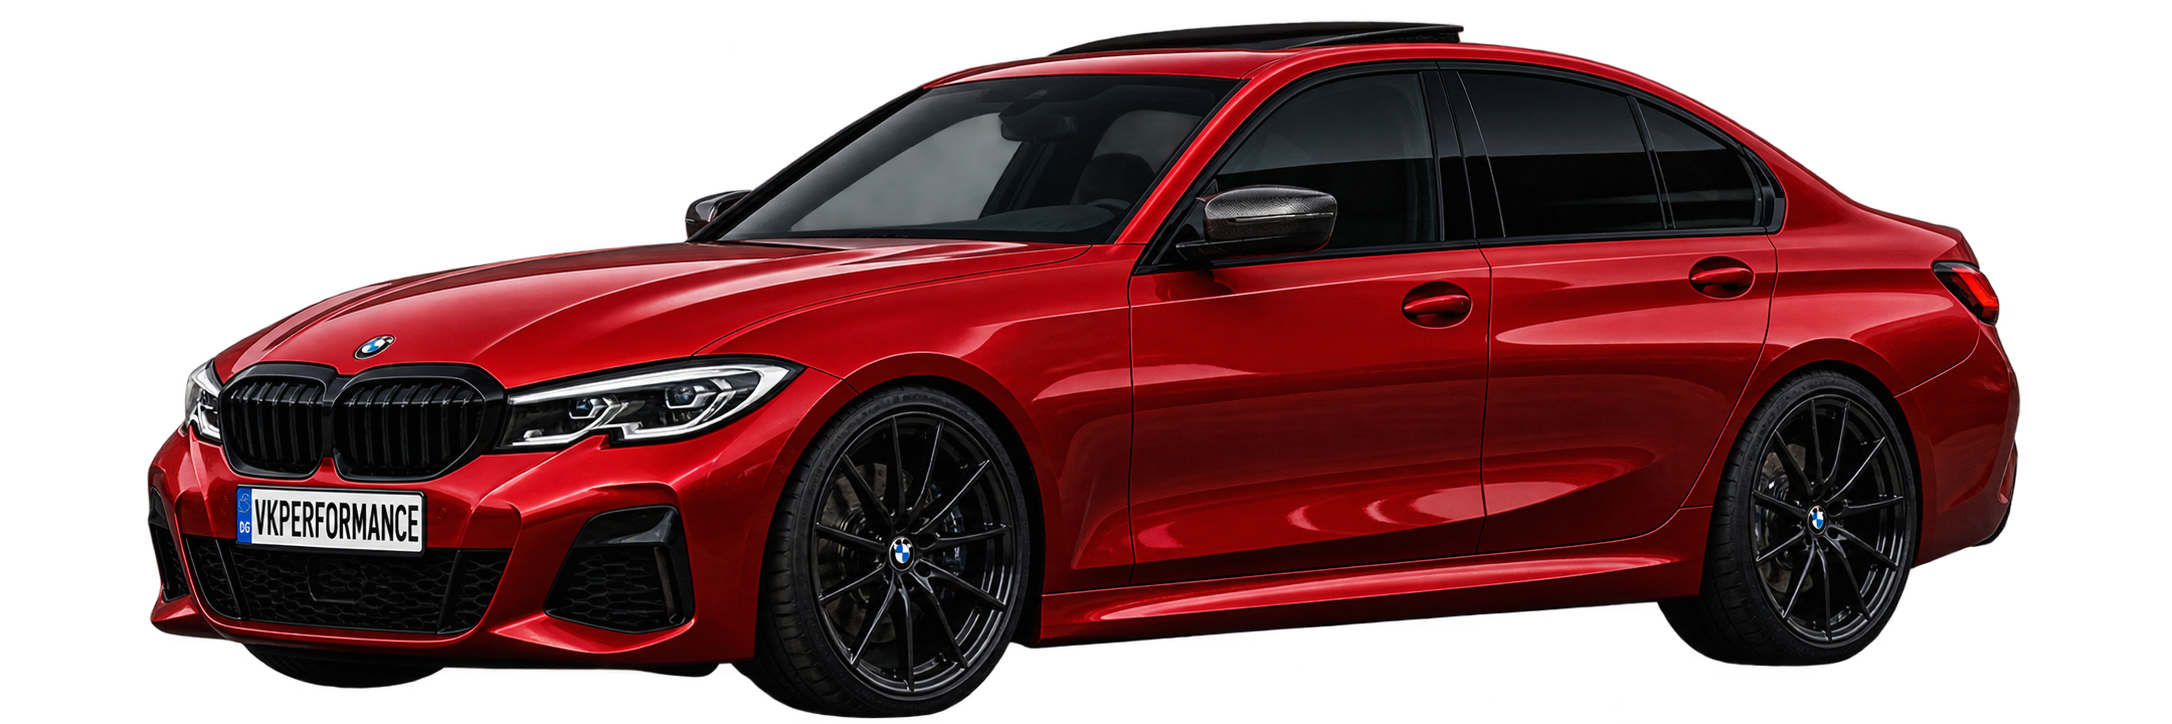
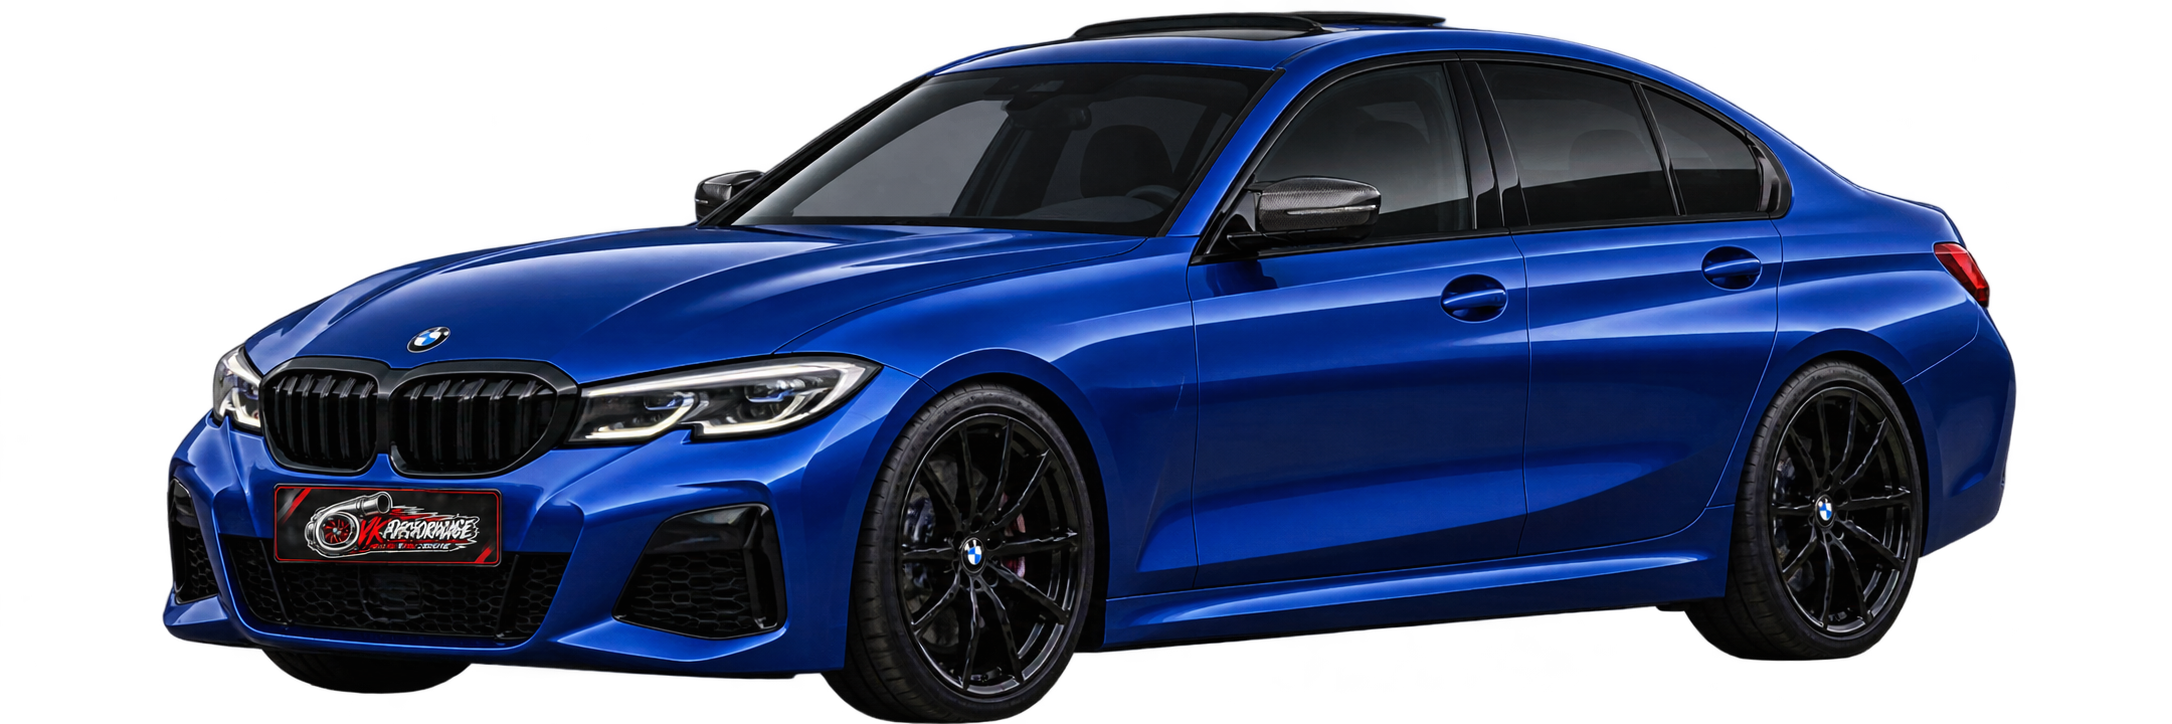
Fix PERFORMANCE side-view car color mapping

diff --git a/apps/performance/README.md b/apps/performance/README.md
@@ -150,9 +150,9 @@ fit on the right side without cropping. The image loader uses the
 matching chassis silhouette for the red and black variants so their transparent
 background stays clean. Settings also let you choose Nm, lb-ft or kgm, toggle
 the read-only ECU torque curve, and set the graph's RPM ceiling or Auto.
-The supplied `M340i_SideView_Blue.png` depicts a red car despite its filename;
-PERFORMANCE maps it by filename and leaves it unchanged, so that selection will
-show the supplied red side view until a corrected blue PNG is provided.
+The side-view files are paired by chassis and paint color with the rear-view
+images. The corrected blue M340i side view from the latest supplied archive is
+used for `M340i G20 BLUE`.
 
 ## DRAG RUN page
 
